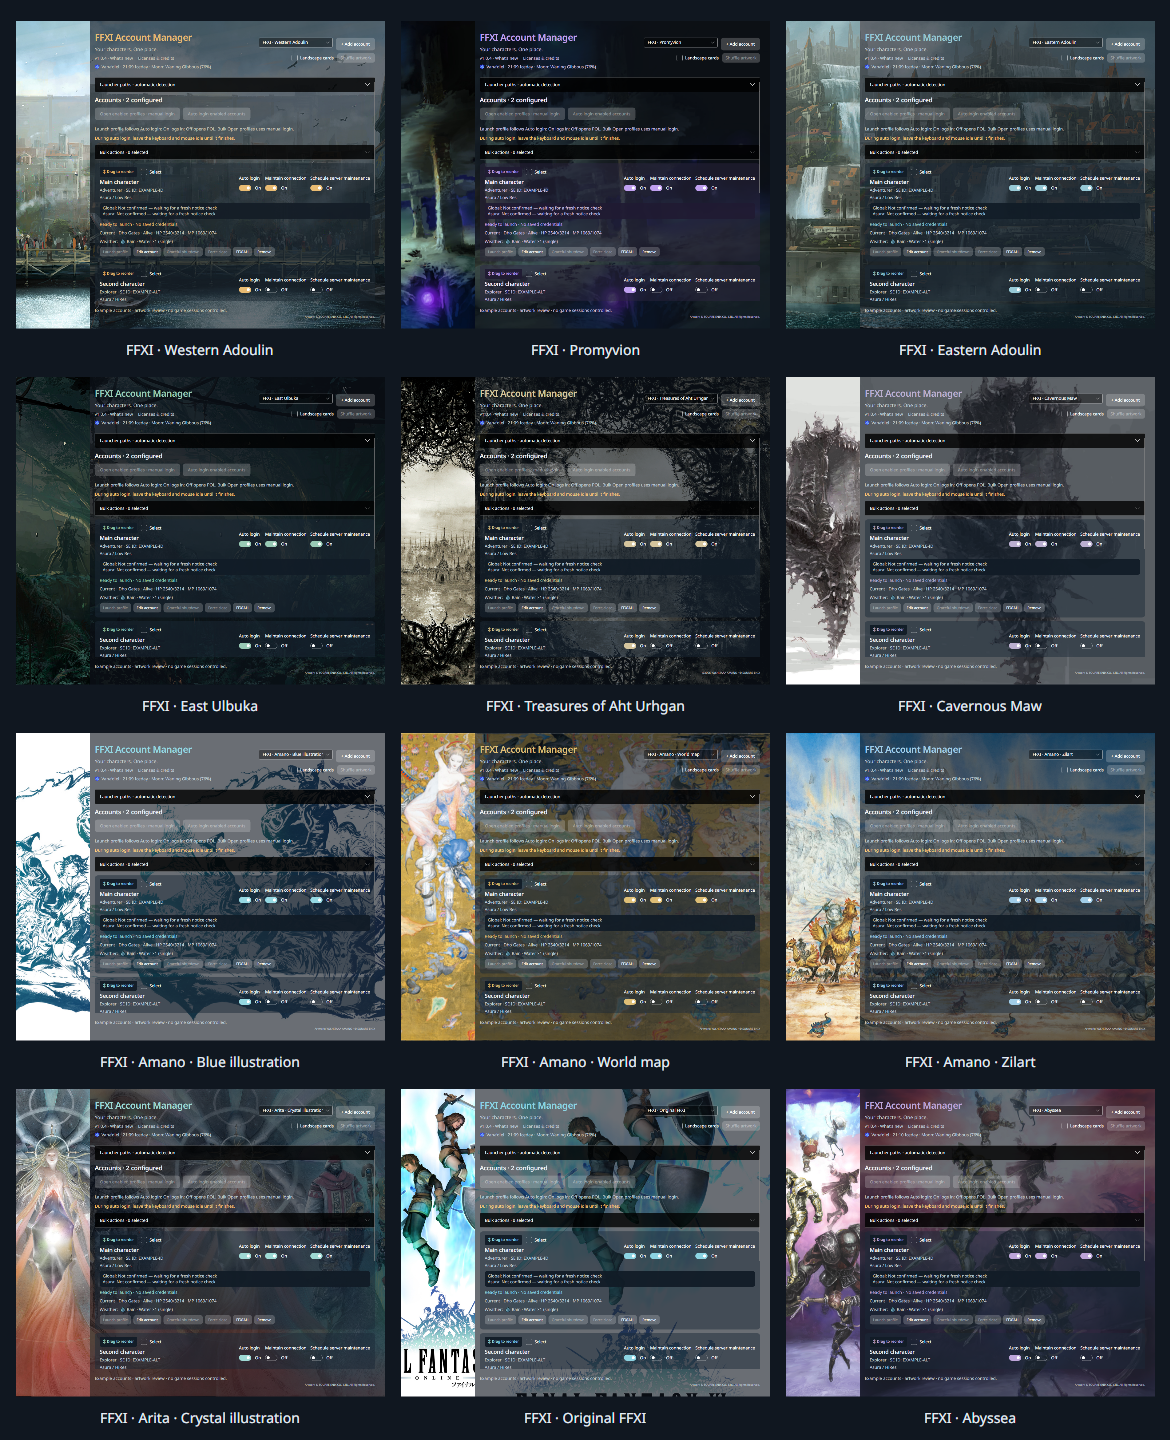
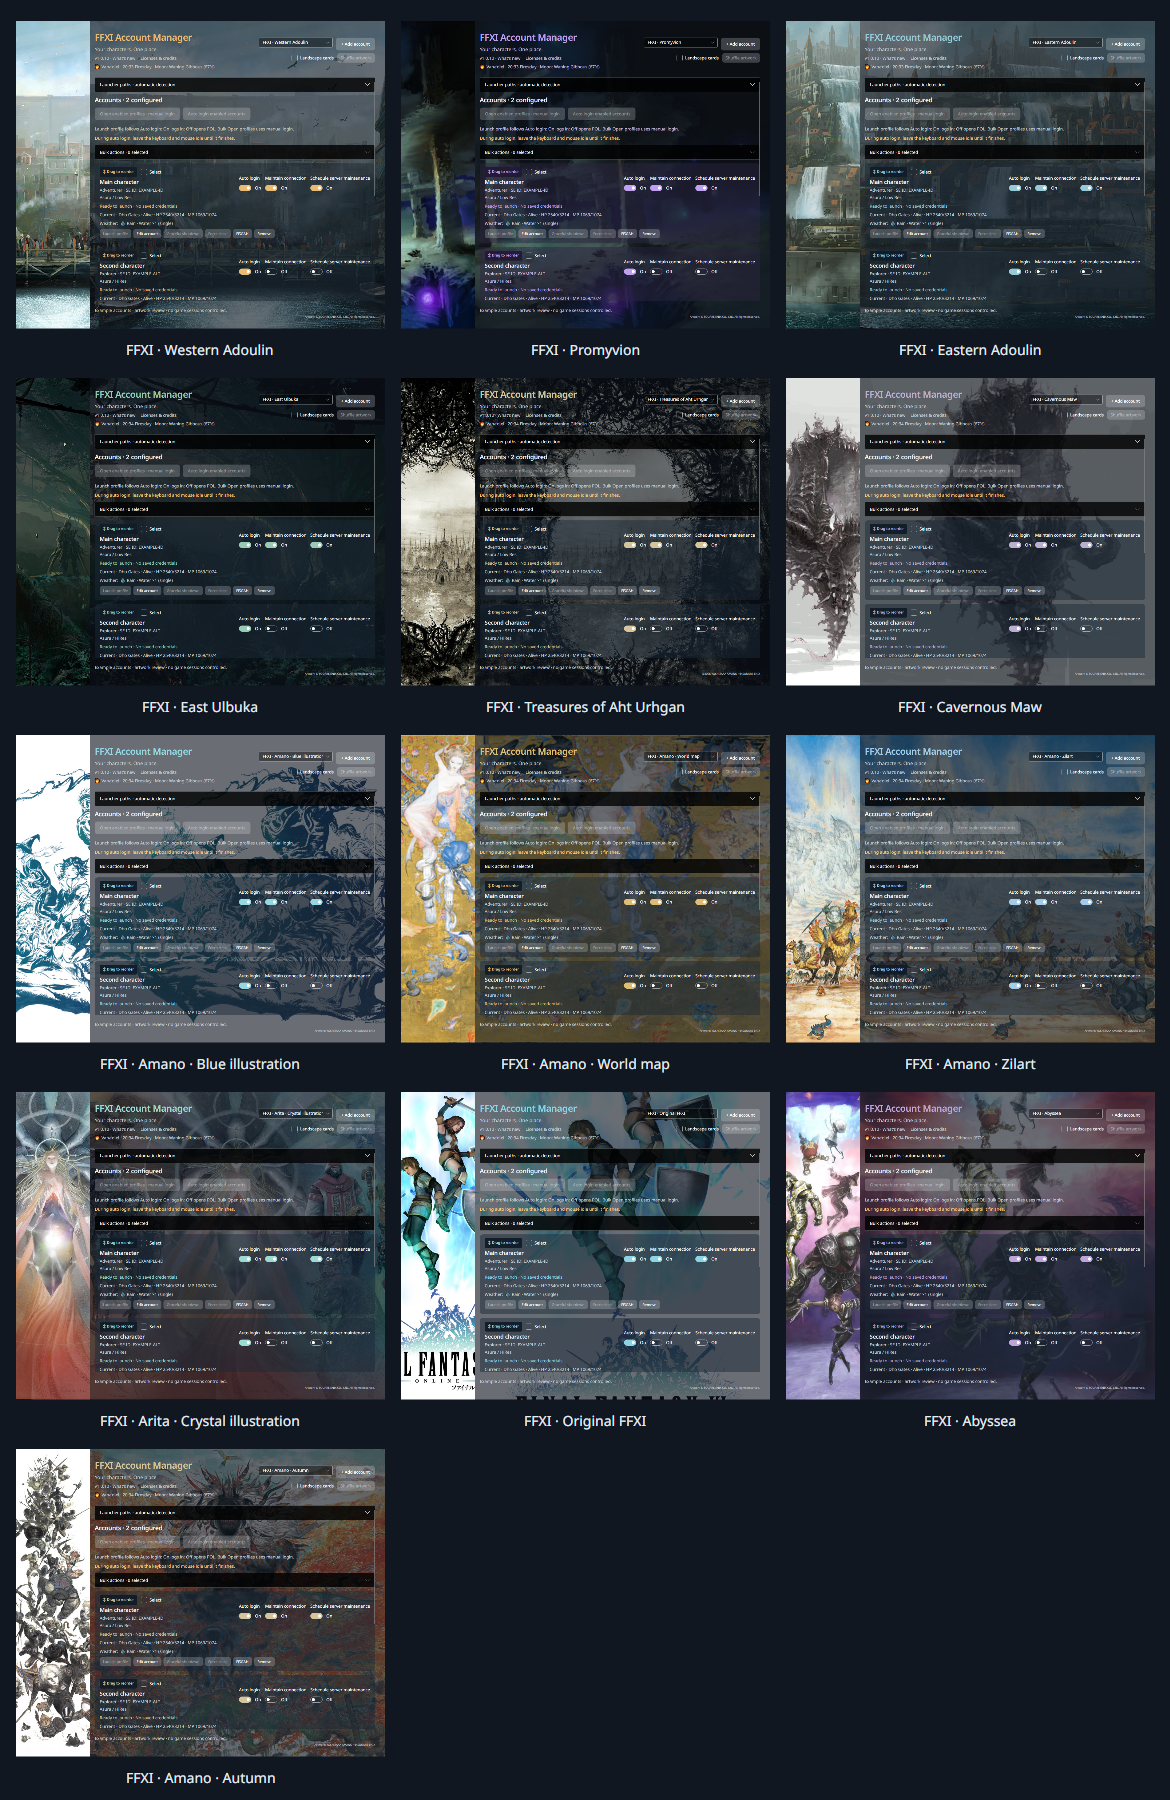
Add paired Amano Autumn artwork theme

diff --git a/src/FFXILauncher.Desktop/MainWindow.axaml.cs b/src/FFXILauncher.Desktop/MainWindow.axaml.cs
@@ -54,6 +54,7 @@ public sealed partial class MainWindow : Window
     private bool updatingSelection;
     private bool updatingTheme;
     private Bitmap? themeArtwork;
+    private Bitmap? sideArtwork;
     private readonly Dictionary<string, Bitmap> landscapeArtwork = [];
 
     public MainWindow() : this(null) { }
@@ -108,7 +109,7 @@ public sealed partial class MainWindow : Window
         timer.Tick += async (_, _) => { AttachVerifiedSessions(); CollectCharacterWorlds(); RefreshSessions(); await CheckRecovery(); };
         timer.Start();
         SizeChanged += (_, _) => UpdateArtworkLayout();
-        Closed += (_, _) => { shutdown.Cancel(); timer.Stop(); calibrationControl?.Dispose(); (autoLogin as IDisposable)?.Dispose(); themeArtwork?.Dispose(); foreach (var bitmap in landscapeArtwork.Values) bitmap.Dispose(); };
+        Closed += (_, _) => { shutdown.Cancel(); timer.Stop(); calibrationControl?.Dispose(); (autoLogin as IDisposable)?.Dispose(); themeArtwork?.Dispose(); sideArtwork?.Dispose(); foreach (var bitmap in landscapeArtwork.Values) bitmap.Dispose(); };
     }
     private async void ShowReleaseNotes(object? sender, RoutedEventArgs args) =>
         await ShowDocument("FFXI Account Manager · v" + AppRelease.Version, AppRelease.Notes);
@@ -193,11 +194,19 @@ public sealed partial class MainWindow : Window
             using var stream = AssetLoader.Open(new Uri("avares://FFXILauncher.Desktop/Assets/Themes/" + theme.Artwork));
             nextArtwork = new Bitmap(stream);
         }
+        Bitmap? nextSideArtwork = null;
+        if (theme.SideArtwork != null)
+        {
+            using var stream = AssetLoader.Open(new Uri("avares://FFXILauncher.Desktop/Assets/Themes/" + theme.SideArtwork));
+            nextSideArtwork = new Bitmap(stream);
+        }
         ThemeCatalog.Apply(theme);
         BackgroundArtwork.Source = nextArtwork;
         PortraitArtwork.Source = nextArtwork;
         BackgroundArtwork.Opacity = .85;
         themeArtwork?.Dispose();
+        sideArtwork?.Dispose();
+        sideArtwork = nextSideArtwork;
         themeArtwork = nextArtwork;
         ArtworkShade.IsVisible = nextArtwork != null;
         ArtworkCredit.IsVisible = nextArtwork != null;
@@ -213,17 +222,17 @@ public sealed partial class MainWindow : Window
         MainContentGrid.Margin = new Thickness(portrait ? 256 : 32, 32, 32, 32);
         if (themeArtwork != null && Bounds.Height > 0)
         {
-            PortraitArtwork.Source = CropArtwork(themeArtwork, 240 / Bounds.Height, theme.SideFocus);
-            BackgroundArtwork.Source = CropArtwork(themeArtwork, Math.Max(1, Bounds.Width - (portrait ? 240 : 0)) / Bounds.Height, theme.BackgroundFocus);
+            PortraitArtwork.Source = CropArtwork(sideArtwork ?? themeArtwork, 240 / Bounds.Height, theme.SideFocus);
+            BackgroundArtwork.Source = CropArtwork(themeArtwork, Math.Max(1, Bounds.Width - (portrait ? 240 : 0)) / Bounds.Height, theme.BackgroundFocus, theme.BackgroundVerticalFocus);
         }
     }
-    private static CroppedBitmap CropArtwork(Bitmap source, double ratio, double focus)
+    private static CroppedBitmap CropArtwork(Bitmap source, double ratio, double focus, double verticalFocus = .5)
     {
         var size = source.PixelSize;
         var width = Math.Min(size.Width, Math.Max(1, (int)Math.Round(size.Height * ratio)));
         var height = Math.Min(size.Height, Math.Max(1, (int)Math.Round(size.Width / ratio)));
         var x = (int)Math.Clamp(size.Width * focus - width / 2d, 0, size.Width - width);
-        var y = (size.Height - height) / 2;
+        var y = (int)Math.Clamp(size.Height * verticalFocus - height / 2d, 0, size.Height - height);
         return new CroppedBitmap { Source = source, SourceRect = new PixelRect(x, y, width, height) };
     }
     private IBrush CharacterCardBrush()

diff --git a/tests/FFXILauncher.Desktop.Smoke/Program.cs b/tests/FFXILauncher.Desktop.Smoke/Program.cs
@@ -430,13 +430,19 @@ configured.FindControl<Expander>("LauncherSetup")!.IsExpanded = false;
 Dispatcher.UIThread.RunJobs();
 using (var frame = configured.CaptureRenderedFrame() ?? throw new Exception("No configured frame")) frame.Save("artifacts/dashboard-accounts.png", PngBitmapEncoderOptions.Default);
 Console.WriteLine("PASS: configured dashboard and maintenance persistence.");
-if (ThemeCatalog.All.Count != 16 || ThemeCatalog.All.Count(t => t.Artwork != null) != 12) throw new Exception("Theme picker must contain four dark UI and twelve artwork themes.");
+if (ThemeCatalog.All.Count != 17 || ThemeCatalog.All.Count(t => t.Artwork != null) != 13) throw new Exception("Theme picker must contain four dark UI and thirteen artwork themes.");
 var themePicker = configured.FindControl<ComboBox>("ThemePicker")!;
 foreach (var theme in ThemeCatalog.All)
 {
     themePicker.SelectedItem = theme;
     Dispatcher.UIThread.RunJobs();
     if (theme.Artwork != null && (!configured.FindControl<Border>("PortraitFrame")!.IsVisible || configured.FindControl<Image>("PortraitArtwork")!.Source is not CroppedBitmap || configured.FindControl<Image>("BackgroundArtwork")!.Source is not CroppedBitmap)) throw new Exception("Every artwork theme needs aspect-preserving expanded crops.");
+    if (theme.SideArtwork != null)
+    {
+        var sideCrop = (CroppedBitmap)configured.FindControl<Image>("PortraitArtwork")!.Source!;
+        var backgroundCrop = (CroppedBitmap)configured.FindControl<Image>("BackgroundArtwork")!.Source!;
+        if (ReferenceEquals(sideCrop.Source, backgroundCrop.Source) || backgroundCrop.SourceRect.Y != 0) throw new Exception("Autumn must use independent side art and preserve the top of its right artwork.");
+    }
     if (new ConfigurationStore(directory).Load().Theme != theme.Id) throw new Exception("Selected theme did not persist.");
     if ((configured.FindControl<Image>("BackgroundArtwork")!.Source != null) != (theme.Artwork != null)) throw new Exception("Artwork theme did not load: " + theme.Id + " · " + configured.FindControl<TextBlock>("Activity")!.Text);
 }
@@ -478,7 +484,7 @@ configured.FindControl<Button>("CopyAddonCommandButton")!.RaiseEvent(new RoutedE
 Dispatcher.UIThread.RunJobs();
 if (configured.Clipboard!.TryGetTextAsync().GetAwaiter().GetResult() != "//lua load FFXIManager" || !configured.FindControl<TextBox>("InitialAddonCommand")!.IsReadOnly) throw new Exception("Copy action must write the displayed command and retain manual text selection.");
 configured.FindControl<Grid>("AddonCommandPanel")!.IsVisible = false;
-Console.WriteLine("PASS: all sixteen themes load, theme choice persists, unknown themes fall back, and command icon writes the displayed clipboard text.");
+Console.WriteLine("PASS: all seventeen themes load, theme choice persists, unknown themes fall back, and command icon writes the displayed clipboard text.");
 configured.Height = 2200;
 Dispatcher.UIThread.RunJobs();
 var beforeDrag = new ConfigurationStore(directory).Load().ConfiguredAccounts.ToArray();

diff --git a/src/FFXILauncher.Desktop/ThemeCatalog.cs b/src/FFXILauncher.Desktop/ThemeCatalog.cs
@@ -5,7 +5,7 @@ using Avalonia.Styling;
 
 namespace FFXILauncher.Desktop;
 
-public sealed record AppTheme(string Id, string Name, string Background, string Surface, string Inset, string Text, string Muted, string Accent, bool Light = false, string? Artwork = null, bool Portrait = false, string? Credit = null, double SideFocus = .5, double BackgroundFocus = .5)
+public sealed record AppTheme(string Id, string Name, string Background, string Surface, string Inset, string Text, string Muted, string Accent, bool Light = false, string? Artwork = null, bool Portrait = false, string? Credit = null, double SideFocus = .5, double BackgroundFocus = .5, string? SideArtwork = null, double BackgroundVerticalFocus = .5)
 {
     public override string ToString() => Name;
 }
@@ -29,7 +29,8 @@ public static class ThemeCatalog
         new("amano-zilart", "FFXI · Amano · Zilart", "#101820", "#E51B2937", "#F0111C27", "#E7EDF2", "#C3CFD8", "#A1CDE8", Artwork: "Amano1.jpg", Portrait: false, Credit: "Artwork: YOSHITAKA AMANO · © SQUARE ENIX"),
         new("arita-crystal", "FFXI · Arita · Crystal illustration", "#101820", "#E51B2937", "#F0111C27", "#E7EDF2", "#C3CFD8", "#9FD9D4", Artwork: "Arita0.jpg", Portrait: false),
         new("ffxi-original", "FFXI · Original FFXI", "#101820", "#E51B2937", "#F0111C27", "#E7EDF2", "#C3CFD8", "#8CD4E3", Artwork: "Illustration0.jpg", Portrait: true),
-        new("abyssea", "FFXI · Abyssea", "#101820", "#E51B2937", "#F0111C27", "#E7EDF2", "#C3CFD8", "#BDA5D9", Artwork: "Illustration6.jpg", Portrait: true)
+        new("abyssea", "FFXI · Abyssea", "#101820", "#E51B2937", "#F0111C27", "#E7EDF2", "#C3CFD8", "#BDA5D9", Artwork: "Illustration6.jpg", Portrait: true),
+        new("amano-autumn", "FFXI · Amano · Autumn", "#101820", "#E51B2937", "#F0111C27", "#E7EDF2", "#C3CFD8", "#D5C59D", Artwork: "Amano10.jpg", Portrait: true, Credit: "Artwork: YOSHITAKA AMANO · © SQUARE ENIX", SideArtwork: "Amano12.jpg", BackgroundVerticalFocus: 0)
     };
 
     public static IReadOnlyList<string> Landscapes { get; } = new[] { "Ulbuka.jpg", "Adoulin.jpg", "EasternAdoulin.jpg", "Promyvion.jpg" };

diff --git a/src/FFXILauncher.Desktop/AppPayload.cs b/src/FFXILauncher.Desktop/AppPayload.cs
@@ -87,6 +87,12 @@ internal static class AppPayload
             using var artworkStream = Avalonia.Platform.AssetLoader.Open(new Uri("avares://FFXILauncher.Desktop/Assets/Themes/" + theme.Artwork));
             using var artwork = new Avalonia.Media.Imaging.Bitmap(artworkStream);
             if (artwork.PixelSize.Width <= 0 || artwork.PixelSize.Height <= 0) throw new IOException("Invalid bundled artwork.");
+            if (theme.SideArtwork != null)
+            {
+                using var sideStream = Avalonia.Platform.AssetLoader.Open(new Uri("avares://FFXILauncher.Desktop/Assets/Themes/" + theme.SideArtwork));
+                using var side = new Avalonia.Media.Imaging.Bitmap(sideStream);
+                if (side.PixelSize.Width <= 0 || side.PixelSize.Height <= 0) throw new IOException("Invalid bundled side artwork.");
+            }
             artworkThemesVerified++;
         }
         var installSource = InstallSource();

diff --git a/README.md b/README.md
@@ -10,7 +10,7 @@ These screenshots show the actual application UI with example accounts and no sa
 
 ![Account dashboard with an FFXI artwork theme](docs/images/dashboard.png)
 
-Choose one of four dark UI themes or 12 artwork themes, including Abyssea. Expanded windows show a tall cropped art panel with a matching background behind the accounts. Disable Landscape cards for more translucent account cards; enable it for prominent landscape images with minimal shading. Shuffle uses every image before repeating and avoids duplicate visible cards while enough images are available. Images keep their aspect ratio. Drag the handle on each card to reorder accounts. **Auto login** controls whether a character's Launch profile button completes login. **Maintain connection** enables recovery; **Schedule server maintenance** plans downtime around applicable notices.
+Choose one of four dark UI themes or 13 artwork themes, including Abyssea. Expanded windows show a tall cropped art panel with a background behind the accounts; Amano · Autumn pairs two different images. Disable Landscape cards for more translucent account cards; enable it for prominent landscape images with minimal shading. Shuffle uses every image before repeating and avoids duplicate visible cards while enough images are available. Images keep their aspect ratio. Drag the handle on each card to reorder accounts. **Auto login** controls whether a character's Launch profile button completes login. **Maintain connection** enables recovery; **Schedule server maintenance** plans downtime around applicable notices.
 
 [See every theme at full size](docs/themes/README.md), including the narrow-window Abyssea view.
 

diff --git a/docs/themes/README.md b/docs/themes/README.md
@@ -1,10 +1,10 @@
-# Theme previews — v1.0.4
+# Theme previews — v1.0.10
 
-Actual application renders with example accounts. No real credentials or game sessions are used. Landscape cards are off to show the translucent surfaces. Expanded artwork views use aspect-preserving crops in the left panel and matching right background.
+Actual application renders with example accounts. No real credentials or game sessions are used. Landscape cards are off to show the translucent surfaces. Expanded artwork views use aspect-preserving crops in the left panel and right background; Amano · Autumn pairs two distinct images.
 
 ## Artwork themes
 
-![All twelve artwork themes](artwork-sheet.png)
+![All thirteen artwork themes](artwork-sheet.png)
 
 [Landscape cards enabled: prominent artwork and distinct images](abyssea-landscape-cards.png). Shuffle uses the entire landscape pool before repeating.
 
@@ -31,6 +31,7 @@ Actual application renders with example accounts. No real credentials or game se
 | FFXI · Amano · Zilart | [Full size](amano-zilart.png) |
 | FFXI · Arita · Crystal illustration | [Full size](arita-crystal.png) |
 | FFXI · Original FFXI | [Full size](ffxi-original.png) |
+| FFXI · Amano · Autumn | [Full size](amano-autumn.png) |
 | FFXI · Abyssea | [Full size](abyssea.png) |
 
 [Narrow-window Abyssea view](abyssea-narrow.png): the side panel hides to preserve room for controls.

diff --git a/CHANGELOG.md b/CHANGELOG.md
@@ -1,5 +1,10 @@
 # Release notes
 
+## 1.0.10
+
+- Added FFXI · Amano · Autumn, pairing the character illustration on the left with the autumn artwork across the right.
+- Artwork themes now support independent side and background images with aspect-preserving crops.
+
 ## 1.0.9
 
 - Widened the maintenance advance-notice hour editor so its full value remains readable alongside the spinner buttons, including the maximum 168 hours.

diff --git a/src/FFXILauncher.Desktop/Assets/Themes/SOURCES.md b/src/FFXILauncher.Desktop/Assets/Themes/SOURCES.md
@@ -15,6 +15,8 @@ URL root: https://we-are-vanadiel.finalfantasyxi.com/assets/images/gallery/seaso
 | Amano13.jpg | 1/vol/1/13.jpg |
 | Amano0.jpg | 1/vol/1/0.jpg |
 | Amano1.jpg | 1/vol/1/1.jpg |
+| Amano10.jpg | 1/vol/1/10.jpg |
+| Amano12.jpg | 1/vol/1/12.jpg |
 | Amano5.jpg | 1/vol/1/5.jpg |
 | Arita0.jpg | 8/vol/3/0.jpg |
 | Illustration0.jpg | 2/vol/1/0.jpg |
